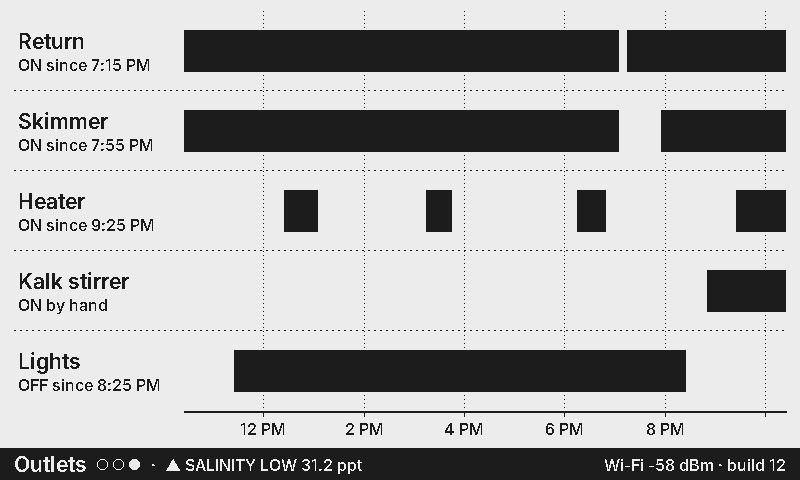
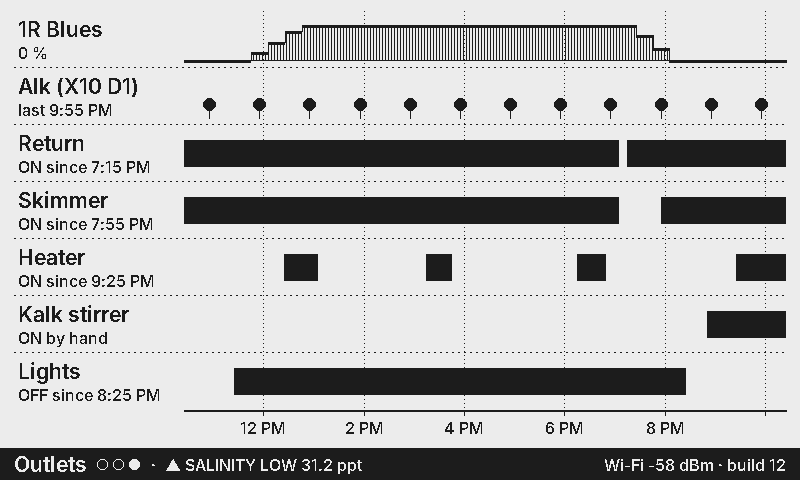
Outlets page looks like the Schedule page: levels and dose marks; button to it
- Outlet history keeps the level (0-100 %), not just on/off; dimmable Hydros
  outputs (valueState between 0 and 10000) draw as a level lane with %,
  dosing heads as a mark per dose, the rest as on/off bars. Ramps only keep
  moves of 5 % or more so a sunrise doesn't fill the buffer.
- Button action 'Outlets / Schedule page (and back)': the first timeline page
  (Outlets in direct mode, Schedule from Coeno); pressed again, back.
- Hydros: logs one dosing head in full once per boot, to find a dose amount.
- /api/outlets state shows the level for dimmable outputs.

Claude-Session: https://claude.ai/code/session_01TP26oxsNUBWNE2a2ey2bNr

diff --git a/web/index.html b/web/index.html
@@ -153,7 +153,7 @@ th{font-size:12px;color:var(--muted);font-weight:500}
  </div>
  <div class="card" id="keysBox" style="display:none"><h2>Buttons</h2>
   <p class="hint">What a short press does. On battery, the press that wakes the panel only wakes it: fresh readings, then the buttons work as set here.</p>
-  <div class="row"><div><label>Left button</label><select id="key_left"><option value="prev">Previous page</option><option value="next">Next page</option><option value="view">Switch view (number + trend / graphs / numbers)</option><option value="refresh">Fresh readings now</option><option value="info">System screen</option><option value="none">Nothing</option></select></div><div><label>Middle button</label><select id="key_middle"><option value="prev">Previous page</option><option value="next">Next page</option><option value="view">Switch view (number + trend / graphs / numbers)</option><option value="refresh">Fresh readings now</option><option value="info">System screen</option><option value="none">Nothing</option></select></div><div><label>Right (green) button</label><select id="key_right"><option value="prev">Previous page</option><option value="next">Next page</option><option value="view">Switch view (number + trend / graphs / numbers)</option><option value="refresh">Fresh readings now</option><option value="info">System screen</option><option value="none">Nothing</option></select></div></div>
+  <div class="row"><div><label>Left button</label><select id="key_left"><option value="prev">Previous page</option><option value="next">Next page</option><option value="view">Switch view (number + trend / graphs / numbers)</option><option value="schedule">Outlets / Schedule page (and back)</option><option value="refresh">Fresh readings now</option><option value="info">System screen</option><option value="none">Nothing</option></select></div><div><label>Middle button</label><select id="key_middle"><option value="prev">Previous page</option><option value="next">Next page</option><option value="view">Switch view (number + trend / graphs / numbers)</option><option value="schedule">Outlets / Schedule page (and back)</option><option value="refresh">Fresh readings now</option><option value="info">System screen</option><option value="none">Nothing</option></select></div><div><label>Right (green) button</label><select id="key_right"><option value="prev">Previous page</option><option value="next">Next page</option><option value="view">Switch view (number + trend / graphs / numbers)</option><option value="schedule">Outlets / Schedule page (and back)</option><option value="refresh">Fresh readings now</option><option value="info">System screen</option><option value="none">Nothing</option></select></div></div>
   <div class="row"><div><label>Acknowledge an alarm with</label><select id="key_ack"><option value="middle">The middle button</option><option value="any">Any button</option></select></div></div>
   <p class="hint">The first press while an alarm is showing acknowledges it (and stops the beeps). Holds are fixed: middle 3 s = System screen (hold again there = check for updates), middle 10 s = setup network, left + right 10 s = erase settings.</p>
   <div class="btns"><button class="btn pri" onclick="saveKeys()">Save buttons</button></div>

diff --git a/src/Outlets.cpp b/src/Outlets.cpp
@@ -5,6 +5,8 @@
 
 #include "Settings.h"
 
+#include <math.h>
+
 namespace outlets {
 
 namespace {
@@ -21,12 +23,14 @@ struct Lock {
 Out items[kMax];
 int n = 0;
 
-// History of the picked outputs: each entry is millis() of a change, with the
-// new state in bit 0 (the time is rounded to an even ms for that).
+// History of the picked outputs: millis() of each change and the new level.
+// Dimmable outputs ramp in small steps; only moves of 5 % or more (or to/from
+// off) are kept, so a sunrise doesn't push the whole day out of the buffer.
 struct Hist {
   char key[44];
   uint8_t len;
-  uint32_t ev[kHist];
+  uint32_t at[kHist];
+  uint8_t v[kHist];
 };
 Hist hist[kPicked];
 
@@ -50,14 +54,20 @@ Hist *histFor(const char *key, bool create) {
   return nullptr;
 }
 
-void record(Hist &h, bool on) {
-  uint32_t e = (millis() & ~1u) | (on ? 1u : 0u);
-  if (h.len && (h.ev[h.len - 1] & 1u) == (on ? 1u : 0u)) return;  // no change
+void record(Hist &h, uint8_t v) {
+  if (h.len) {
+    uint8_t last = h.v[h.len - 1];
+    bool onOff = (last == 0) != (v == 0);
+    if (!onOff && abs((int)v - (int)last) < 5) return;
+  }
   if (h.len >= kHist) {
-    memmove(h.ev, h.ev + 1, sizeof(uint32_t) * (kHist - 1));
+    memmove(h.at, h.at + 1, sizeof(h.at[0]) * (kHist - 1));
+    memmove(h.v, h.v + 1, kHist - 1);
     h.len = kHist - 1;
   }
-  h.ev[h.len++] = e;
+  h.at[h.len] = millis();
+  h.v[h.len] = v;
+  h.len++;
 }
 
 }  // namespace
@@ -73,7 +83,8 @@ const char *nameOf(const char *key) {
   return c;
 }
 
-void update(const char *key, const char *source, const char *type, bool on, bool manual, bool hidden) {
+void update(const char *key, const char *source, const char *type, uint8_t level, bool manual, bool hidden) {
+  bool on = level > 0;
   Lock l;
   Out *o = nullptr;
   for (int i = 0; i < n; i++)
@@ -89,9 +100,11 @@ void update(const char *key, const char *source, const char *type, bool on, bool
   o->on = on;
   o->manual = manual;
   o->hidden = hidden;
+  o->level = level > 100 ? 100 : level;
+  if (level > 0 && level < 100) o->variable = true;
   o->atMs = millis();
   if (picked(key))
-    if (Hist *h = histFor(key, true)) record(*h, on);
+    if (Hist *h = histFor(key, true)) record(*h, o->level);
 }
 
 int count() {
@@ -146,25 +159,43 @@ bool buildPage(panel::Page &p) {
       g.status = panel::Status::Missing;
       continue;
     }
+    bool doser = !strcmp(o->type, "doser");
+    g.lane = doser ? panel::Lane::Events : o->variable ? panel::Lane::Step : panel::Lane::OnOff;
     g.has = true;
-    g.value = o->on ? 1 : 0;
+    if (o->variable) {
+      g.value = o->level;
+      PANEL_COPY(g.unit, "%");
+      g.dec = 0;
+    } else {
+      g.value = o->on ? 1 : 0;
+    }
     if (o->manual) PANEL_COPY(g.note, "by hand");
     PANEL_COPY(g.src, o->source);
     Hist *h = histFor(o->key, false);
     if (!h) continue;
-    // Points: the state at the window start (the last change before it), then
-    // each change inside it.
+    auto ago = [&](int k) { return (int32_t)(ms - h->at[k]) / 60000; };
+    if (doser) {
+      // A mark where each dose started (amounts aren't in the status).
+      for (int k = 0; k < h->len && g.nspark < panel::kSparkLen; k++) {
+        if (h->v[k] == 0 || (k > 0 && h->v[k - 1] > 0)) continue;
+        if (ago(k) > -p.from) continue;
+        g.t[g.nspark] = (int16_t)-ago(k);
+        g.spark[g.nspark++] = NAN;
+      }
+      continue;
+    }
+    // The state at the window start (the last change before it), then each
+    // change inside it.
     int first = h->len;
     for (int k = 0; k < h->len; k++)
-      if ((int32_t)(ms - (h->ev[k] & ~1u)) / 60000 <= -p.from) {
+      if (ago(k) <= -p.from) {
         first = k;
         break;
       }
     int start = first > 0 ? first - 1 : 0;
     for (int k = start; k < h->len && g.nspark < panel::kSparkLen; k++) {
-      int32_t ago = (int32_t)(ms - (h->ev[k] & ~1u)) / 60000;
-      g.t[g.nspark] = (int16_t)(ago > -p.from ? p.from : -ago);
-      g.spark[g.nspark] = (h->ev[k] & 1u) ? 1 : 0;
+      g.t[g.nspark] = (int16_t)(ago(k) > -p.from ? p.from : -ago(k));
+      g.spark[g.nspark] = o->variable ? h->v[k] : (h->v[k] ? 1 : 0);
       g.nspark++;
     }
   }

diff --git a/src/Hydros.cpp b/src/Hydros.cpp
@@ -354,6 +354,13 @@ void handlePayload(const String &topic, uint8_t *data, size_t len) {
     if (o) {
       int left = jl - (int)(o - js);
       Serial.printf("[hydros] outputs section: %.*s\n", left < 700 ? left : 700, o);
+      // A dosing head in full (for the dose amount, if the status has one).
+      for (int i = (int)(o - js); i + 5 < jl; i++)
+        if (!memcmp(js + i, "\"rpm\"", 5)) {
+          int a = i - 120 < 0 ? 0 : i - 120;
+          Serial.printf("[hydros] a dosing head: %.*s\n", jl - a < 600 ? jl - a : 600, js + a);
+          break;
+        }
     } else {
       Serial.println("[hydros] no Output section found in the status");
     }
@@ -390,10 +397,14 @@ void handlePayload(const String &topic, uint8_t *data, size_t len) {
     float v = numberOf(o["valueState"]);
     float dr = numberOf(o["drainvalueState"]), fi = numberOf(o["fillvalueState"]);
     if (isnan(v) && isnan(dr) && isnan(fi)) continue;
-    bool on = (!isnan(v) && v > 0) || (!isnan(dr) && dr > 0) || (!isnan(fi) && fi > 0);
-    const char *type = !o["rpm"].isNull() ? "doser" : !isnan(dr) || !isnan(fi) ? "wc" : "output";
+    bool doser = !o["rpm"].isNull(), wc = !isnan(dr) || !isnan(fi);
+    // valueState 0..10000 = 0-100 %; the water-change pair counts as on/off.
+    uint8_t level = 0;
+    if (wc) level = ((!isnan(dr) && dr > 0) || (!isnan(fi) && fi > 0) || (!isnan(v) && v > 0)) ? 100 : 0;
+    else if (!isnan(v)) level = (uint8_t)constrain((int)lroundf(v / 100.0f), v > 0 ? 1 : 0, 100);
+    if (doser && level) level = 100;  // a dosing head runs at speed: on/off
     String key = "hydros:" + thing + "/" + kv.key().c_str();
-    outlets::update(key.c_str(), "Hydros", type, on, o["override"] | false, false);
+    outlets::update(key.c_str(), "Hydros", doser ? "doser" : wc ? "wc" : "output", level, o["override"] | false, false);
   }
 }
 

diff --git a/src/Outlets.h b/src/Outlets.h
@@ -23,17 +23,21 @@ struct Out {
   bool on;
   bool manual;      // forced on/off by hand (Apex ON/OFF, not AON/AOF)
   bool hidden;      // virtual / alert outputs: not offered by default
+  uint8_t level;    // 0-100 % (on/off outputs: 0 or 100)
+  bool variable;    // has reported a level between 0 and 100 (lights, pumps)
   uint32_t atMs;    // last report
 };
 
-void update(const char *key, const char *source, const char *type, bool on, bool manual, bool hidden);
+// level: 0-100 % (pass 100 / 0 for plain on/off outputs).
+void update(const char *key, const char *source, const char *type, uint8_t level, bool manual, bool hidden);
 int count();
 bool at(int i, Out &out);
 bool get(const String &key, Out &out);
 const char *nameOf(const char *key);  // the part after "source:"
 
-// The Outlets page as timeline lanes: 12 h up to now (empty page if nothing
-// picked). Uses settings' outlet picks for order and labels.
+// The Outlets page as timeline lanes, 12 h up to now. Lane per output kind:
+// dosing heads = a mark per dose, dimmable outputs = their level (%),
+// everything else on/off bars. Uses settings' picks for order and labels.
 bool buildPage(panel::Page &p);
 
 }  // namespace outlets

diff --git a/src/main.cpp b/src/main.cpp
@@ -640,6 +640,7 @@ void keys() {
     if (action == "prev") app::prevPage();
     else if (action == "next") app::nextPage();
     else if (action == "view") app::cycleView();
+    else if (action == "schedule") app::toggleSchedule();
     else if (action == "refresh") {
       apex::pollNow();
       app::redraw(true);
@@ -859,6 +860,22 @@ void gotoPage(int n) {
   redrawAsked = true;
 }
 void nextPage() { gotoPage(nPages ? (curPage + 1) % nPages : 0); }
+// The Outlets (direct) or Schedule (Coeno) page, i.e. the first timeline page;
+// pressed again, back to where you were.
+void toggleSchedule() {
+  static int back = 0;
+  std::unique_ptr<panel::Page> p(new (std::nothrow) panel::Page());
+  if (!p) return;
+  for (int i = 0; i < nPages; i++) {
+    if (!fetchPage(i, *p) || p->layout != panel::Layout::Timeline) continue;
+    if (curPage == i) gotoPage(back);
+    else {
+      back = curPage;
+      gotoPage(i);
+    }
+    return;
+  }
+}
 void prevPage() { gotoPage(nPages ? (curPage + nPages - 1) % nPages : 0); }
 void cycleView() {
   Settings &s = settings::get();

diff --git a/tools/host/host_main.cpp b/tools/host/host_main.cpp
@@ -152,6 +152,33 @@ static void samples() {
         {"Kalk stirrer", {{-720, 0}, {-95, 1}}, "by hand"},
         {"Lights", {{-720, 0}, {-660, 1}, {-120, 0}}, ""},
     };
+    // Dimmable output (Hydros valueState) as a level lane, and a dosing head.
+    {
+      Gauge &g = o.g[o.n++];
+      PANEL_COPY(g.label, "1R Blues");
+      PANEL_COPY(g.unit, "%");
+      g.dec = 0;
+      g.lane = Lane::Step;
+      g.status = Status::Ok;
+      g.has = true;
+      int pts[][2] = {{-720, 0}, {-640, 20}, {-620, 45}, {-600, 70}, {-580, 85}, {-180, 60}, {-160, 30}, {-140, 0}};
+      for (auto &q : pts) {
+        g.t[g.nspark] = q[0];
+        g.spark[g.nspark++] = q[1];
+      }
+      g.value = 0;
+    }
+    {
+      Gauge &g = o.g[o.n++];
+      PANEL_COPY(g.label, "Alk (X10 D1)");
+      g.lane = Lane::Events;
+      g.status = Status::Ok;
+      g.has = true;
+      for (int t = -690; t < 0; t += 60) {
+        g.t[g.nspark] = t;
+        g.spark[g.nspark++] = NAN;
+      }
+    }
     for (auto &l : ls) {
       Gauge &g = o.g[o.n++];
       PANEL_COPY(g.label, l.name);

diff --git a/src/Settings.cpp b/src/Settings.cpp
@@ -203,7 +203,7 @@ String applyJson(JsonObjectConst o) {
     auto act = [](JsonVariantConst v, String &dst) {
       if (!v.is<const char *>()) return;
       String a = v.as<const char *>();
-      if (a == "prev" || a == "next" || a == "view" || a == "refresh" || a == "info" || a == "none") dst = a;
+      if (a == "prev" || a == "next" || a == "view" || a == "refresh" || a == "info" || a == "schedule" || a == "none") dst = a;
     };
     act(k["left"], s.keyLeft);
     act(k["middle"], s.keyMid);

diff --git a/src/Apex.cpp b/src/Apex.cpp
@@ -153,7 +153,7 @@ static String poll(const String &hostIn, const String &user, const String &pass,
       bool manual = st == "ON" || st == "OFF";
       bool on = st == "ON" || st == "AON" || st == "TBL";
       bool hidden = type == "virtual" || type == "alert" || type == "serial";
-      outlets::update(("apex:" + name).c_str(), "Apex", type.c_str(), on, manual, hidden);
+      outlets::update(("apex:" + name).c_str(), "Apex", type.c_str(), on ? 100 : 0, manual, hidden);
     }
   }
   return "";

diff --git a/src/Web.cpp b/src/Web.cpp
@@ -290,7 +290,8 @@ void handleOutlets() {
     j["source"] = o.source;
     j["type"] = o.type;
     j["hidden"] = o.hidden;
-    j["state"] = String(o.on ? "on" : "off") + (o.manual ? " (by hand)" : " (auto)");
+    j["state"] = String(o.on ? (o.variable ? String(o.level) + " %" : String("on")) : String("off")) +
+                 (o.manual ? " (by hand)" : " (auto)");
   }
   sendJson(200, d);
 }

diff --git a/src/App.h b/src/App.h
@@ -11,6 +11,7 @@ int pages();
 void gotoPage(int n);
 void nextPage();
 void prevPage();
+void toggleSchedule();  // to the Outlets / Schedule page and back
 // Tiles: number + trend -> graphs -> numbers only -> ... (saved).
 void cycleView();
 void redraw(bool full);  // redraw soon (full = flashing refresh)
